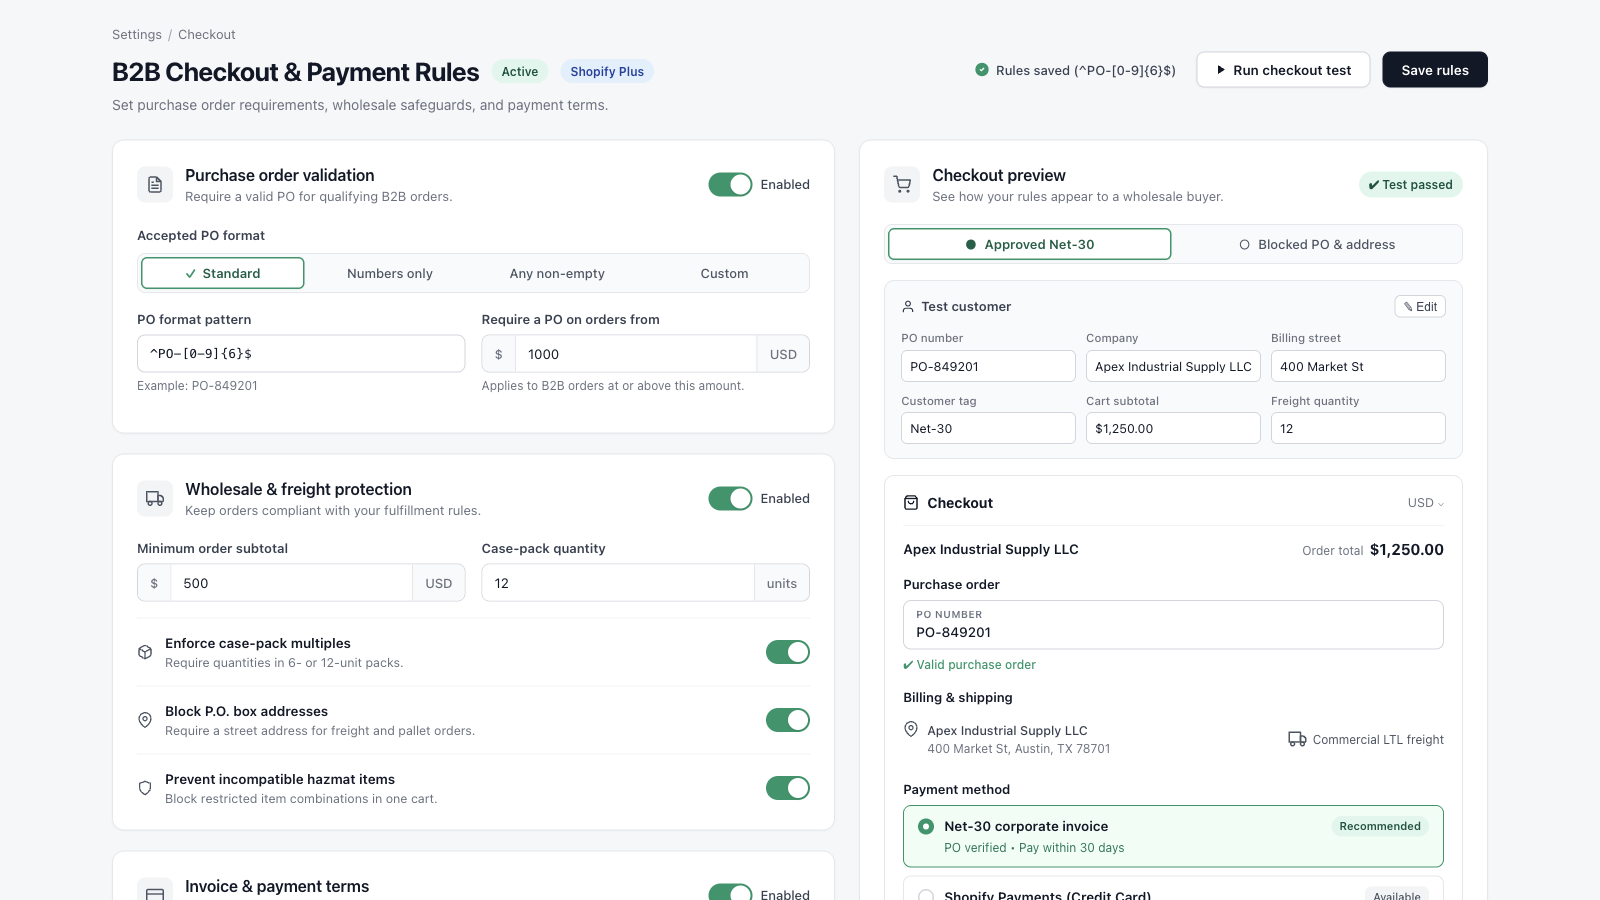
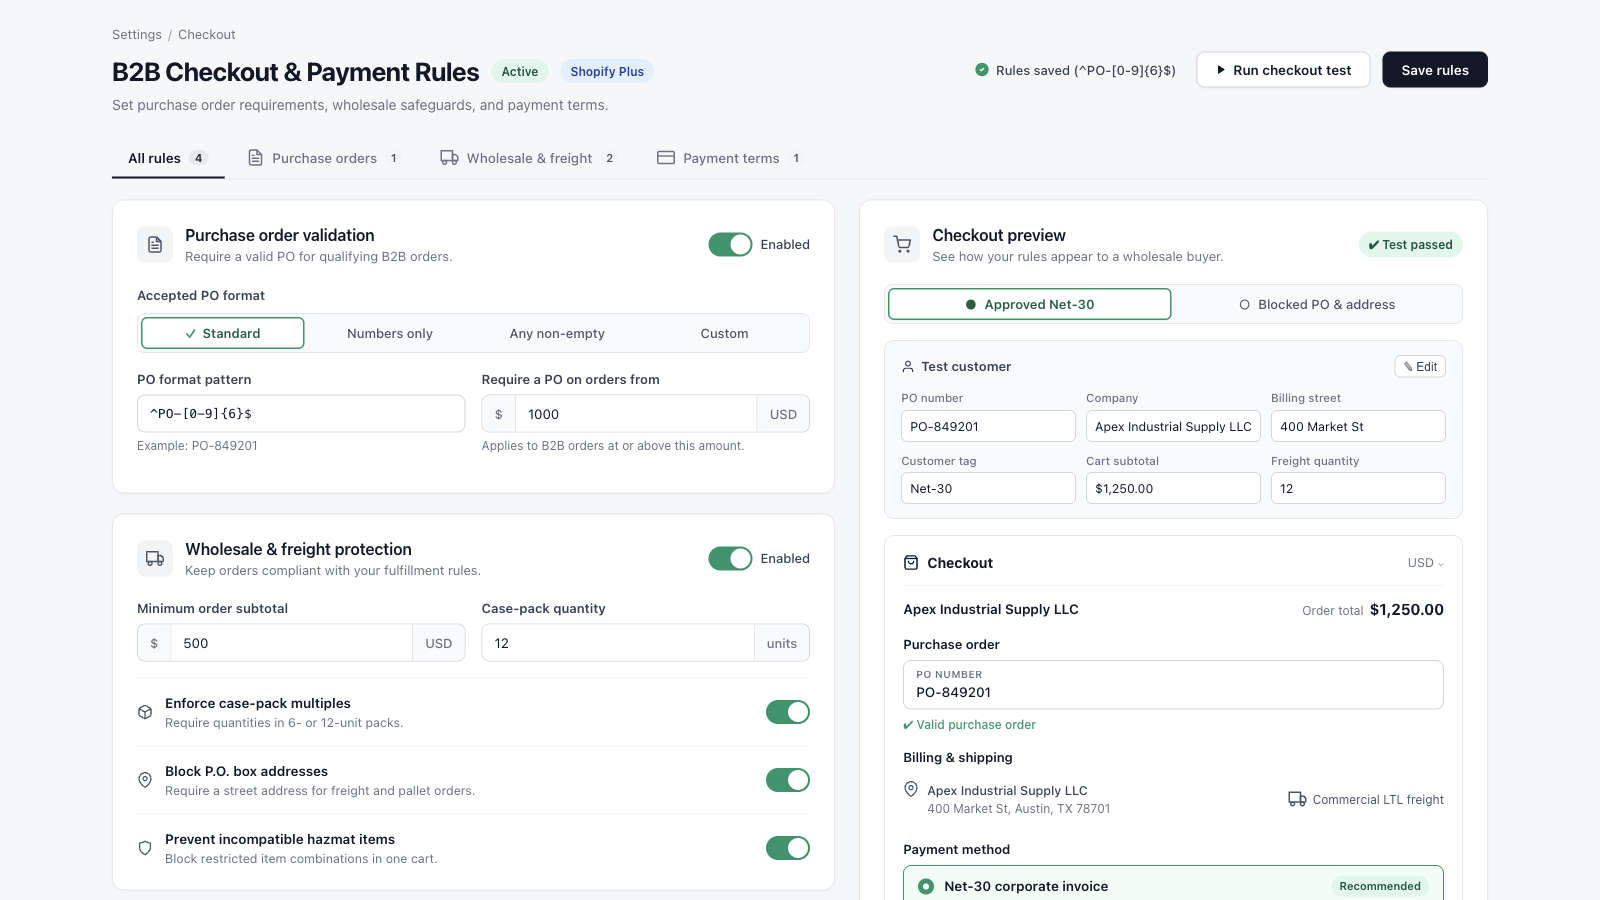
feat(ui): add authentic Shopify Polaris domain tabs with persistent live checkout preview

diff --git a/web/ui/rule-builder-app.ts b/web/ui/rule-builder-app.ts
@@ -212,6 +212,52 @@ export function renderEmbeddedRuleBuilderHtml(
       border-color: #9CA3AF;
     }
 
+    /* DOMAIN NAVIGATION TABS (Option 1) */
+    .tl-nav-tabs {
+      display: flex;
+      align-items: center;
+      gap: 6px;
+      border-bottom: 1px solid #E5E7EB;
+      margin-bottom: 20px;
+    }
+    .tl-tab-item {
+      background: transparent;
+      border: none;
+      border-bottom: 2px solid transparent;
+      padding: 9px 16px 11px;
+      font-size: 13.5px;
+      font-weight: 500;
+      color: #6B7280;
+      cursor: pointer;
+      display: inline-flex;
+      align-items: center;
+      gap: 8px;
+      transition: all 0.15s ease;
+      font-family: inherit;
+      margin-bottom: -1px;
+      outline: none;
+    }
+    .tl-tab-item:hover {
+      color: #111827;
+    }
+    .tl-tab-item--active {
+      color: #111827;
+      font-weight: 600;
+      border-bottom-color: #111827;
+    }
+    .tl-tab-count {
+      background: #F3F4F6;
+      color: #4B5563;
+      font-size: 11px;
+      font-weight: 600;
+      padding: 1px 6px;
+      border-radius: 9999px;
+    }
+    .tl-tab-item--active .tl-tab-count {
+      background: #E5E7EB;
+      color: #111827;
+    }
+
     /* 2-COLUMN MAIN GRID */
     .tl-main-grid {
       display: grid;
@@ -1005,6 +1051,44 @@ export function renderEmbeddedRuleBuilderHtml(
       const scenarioPassBtn = document.getElementById('preset-scenario-pass');
       const scenarioFailBtn = document.getElementById('preset-scenario-fail');
       const presetBtns = document.querySelectorAll('.tl-seg-btn');
+
+      // Domain Navigation Tabs switching (Option 1)
+      const tabBtns = document.querySelectorAll('.tl-tab-item');
+      const cards = {
+        po: document.getElementById('card-po-validation'),
+        wholesale: document.getElementById('card-wholesale-freight'),
+        payments: document.getElementById('card-payment-terms')
+      };
+
+      tabBtns.forEach(function (tab) {
+        tab.addEventListener('click', function () {
+          tabBtns.forEach(function (t) {
+            t.classList.remove('tl-tab-item--active');
+            t.setAttribute('aria-selected', 'false');
+          });
+          tab.classList.add('tl-tab-item--active');
+          tab.setAttribute('aria-selected', 'true');
+
+          const domain = tab.getAttribute('data-tab');
+          if (domain === 'all') {
+            if (cards.po) cards.po.style.display = 'block';
+            if (cards.wholesale) cards.wholesale.style.display = 'block';
+            if (cards.payments) cards.payments.style.display = 'block';
+          } else if (domain === 'po') {
+            if (cards.po) cards.po.style.display = 'block';
+            if (cards.wholesale) cards.wholesale.style.display = 'none';
+            if (cards.payments) cards.payments.style.display = 'none';
+          } else if (domain === 'wholesale') {
+            if (cards.po) cards.po.style.display = 'none';
+            if (cards.wholesale) cards.wholesale.style.display = 'block';
+            if (cards.payments) cards.payments.style.display = 'none';
+          } else if (domain === 'payments') {
+            if (cards.po) cards.po.style.display = 'none';
+            if (cards.wholesale) cards.wholesale.style.display = 'none';
+            if (cards.payments) cards.payments.style.display = 'block';
+          }
+        });
+      });
 
       // Accepted PO Format preset pill clicks
       presetBtns.forEach(function (btn) {

diff --git a/web/ui/RuleBuilderPage.ts b/web/ui/RuleBuilderPage.ts
@@ -189,13 +189,46 @@ export function RuleBuilderPage({
       )
     ),
 
+    // DOMAIN NAVIGATION TABS (Option 1)
+    e(
+      "nav",
+      { className: "tl-nav-tabs", role: "tablist", "aria-label": "Rule configuration domains" },
+      e(
+        "button",
+        { type: "button", id: "tab-all", className: "tl-tab-item tl-tab-item--active", "data-tab": "all", role: "tab", "aria-selected": "true" },
+        e("span", null, "All rules"),
+        e("span", { className: "tl-tab-count" }, "4")
+      ),
+      e(
+        "button",
+        { type: "button", id: "tab-po", className: "tl-tab-item", "data-tab": "po", role: "tab", "aria-selected": "false" },
+        icons.document,
+        e("span", null, "Purchase orders"),
+        e("span", { className: "tl-tab-count" }, "1")
+      ),
+      e(
+        "button",
+        { type: "button", id: "tab-wholesale", className: "tl-tab-item", "data-tab": "wholesale", role: "tab", "aria-selected": "false" },
+        icons.truck,
+        e("span", null, "Wholesale & freight"),
+        e("span", { className: "tl-tab-count" }, "2")
+      ),
+      e(
+        "button",
+        { type: "button", id: "tab-payments", className: "tl-tab-item", "data-tab": "payments", role: "tab", "aria-selected": "false" },
+        icons.creditCard,
+        e("span", null, "Payment terms"),
+        e("span", { className: "tl-tab-count" }, "1")
+      )
+    ),
+
     // 2-COLUMN MAIN CONTENT GRID
     e(
       "div",
       { className: "tl-main-grid" },
 
       // =======================================================================
-      // LEFT COLUMN: 3 CONFIGURATION CARDS
+      // LEFT COLUMN: CONFIGURATION CARDS
       // =======================================================================
       e(
         "div",
@@ -207,7 +240,7 @@ export function RuleBuilderPage({
           // CARD 1: PURCHASE ORDER VALIDATION
           e(
             "section",
-            { className: "tl-card" },
+            { id: "card-po-validation", className: "tl-card", "data-domain": "po" },
             e(
               "div",
               { className: "tl-card-header" },
@@ -300,7 +333,7 @@ export function RuleBuilderPage({
           // CARD 2: WHOLESALE & FREIGHT PROTECTION
           e(
             "section",
-            { className: "tl-card" },
+            { id: "card-wholesale-freight", className: "tl-card", "data-domain": "wholesale" },
             e(
               "div",
               { className: "tl-card-header" },
@@ -440,7 +473,7 @@ export function RuleBuilderPage({
           // CARD 3: INVOICE & PAYMENT TERMS
           e(
             "section",
-            { className: "tl-card" },
+            { id: "card-payment-terms", className: "tl-card", "data-domain": "payments" },
             e(
               "div",
               { className: "tl-card-header" },
